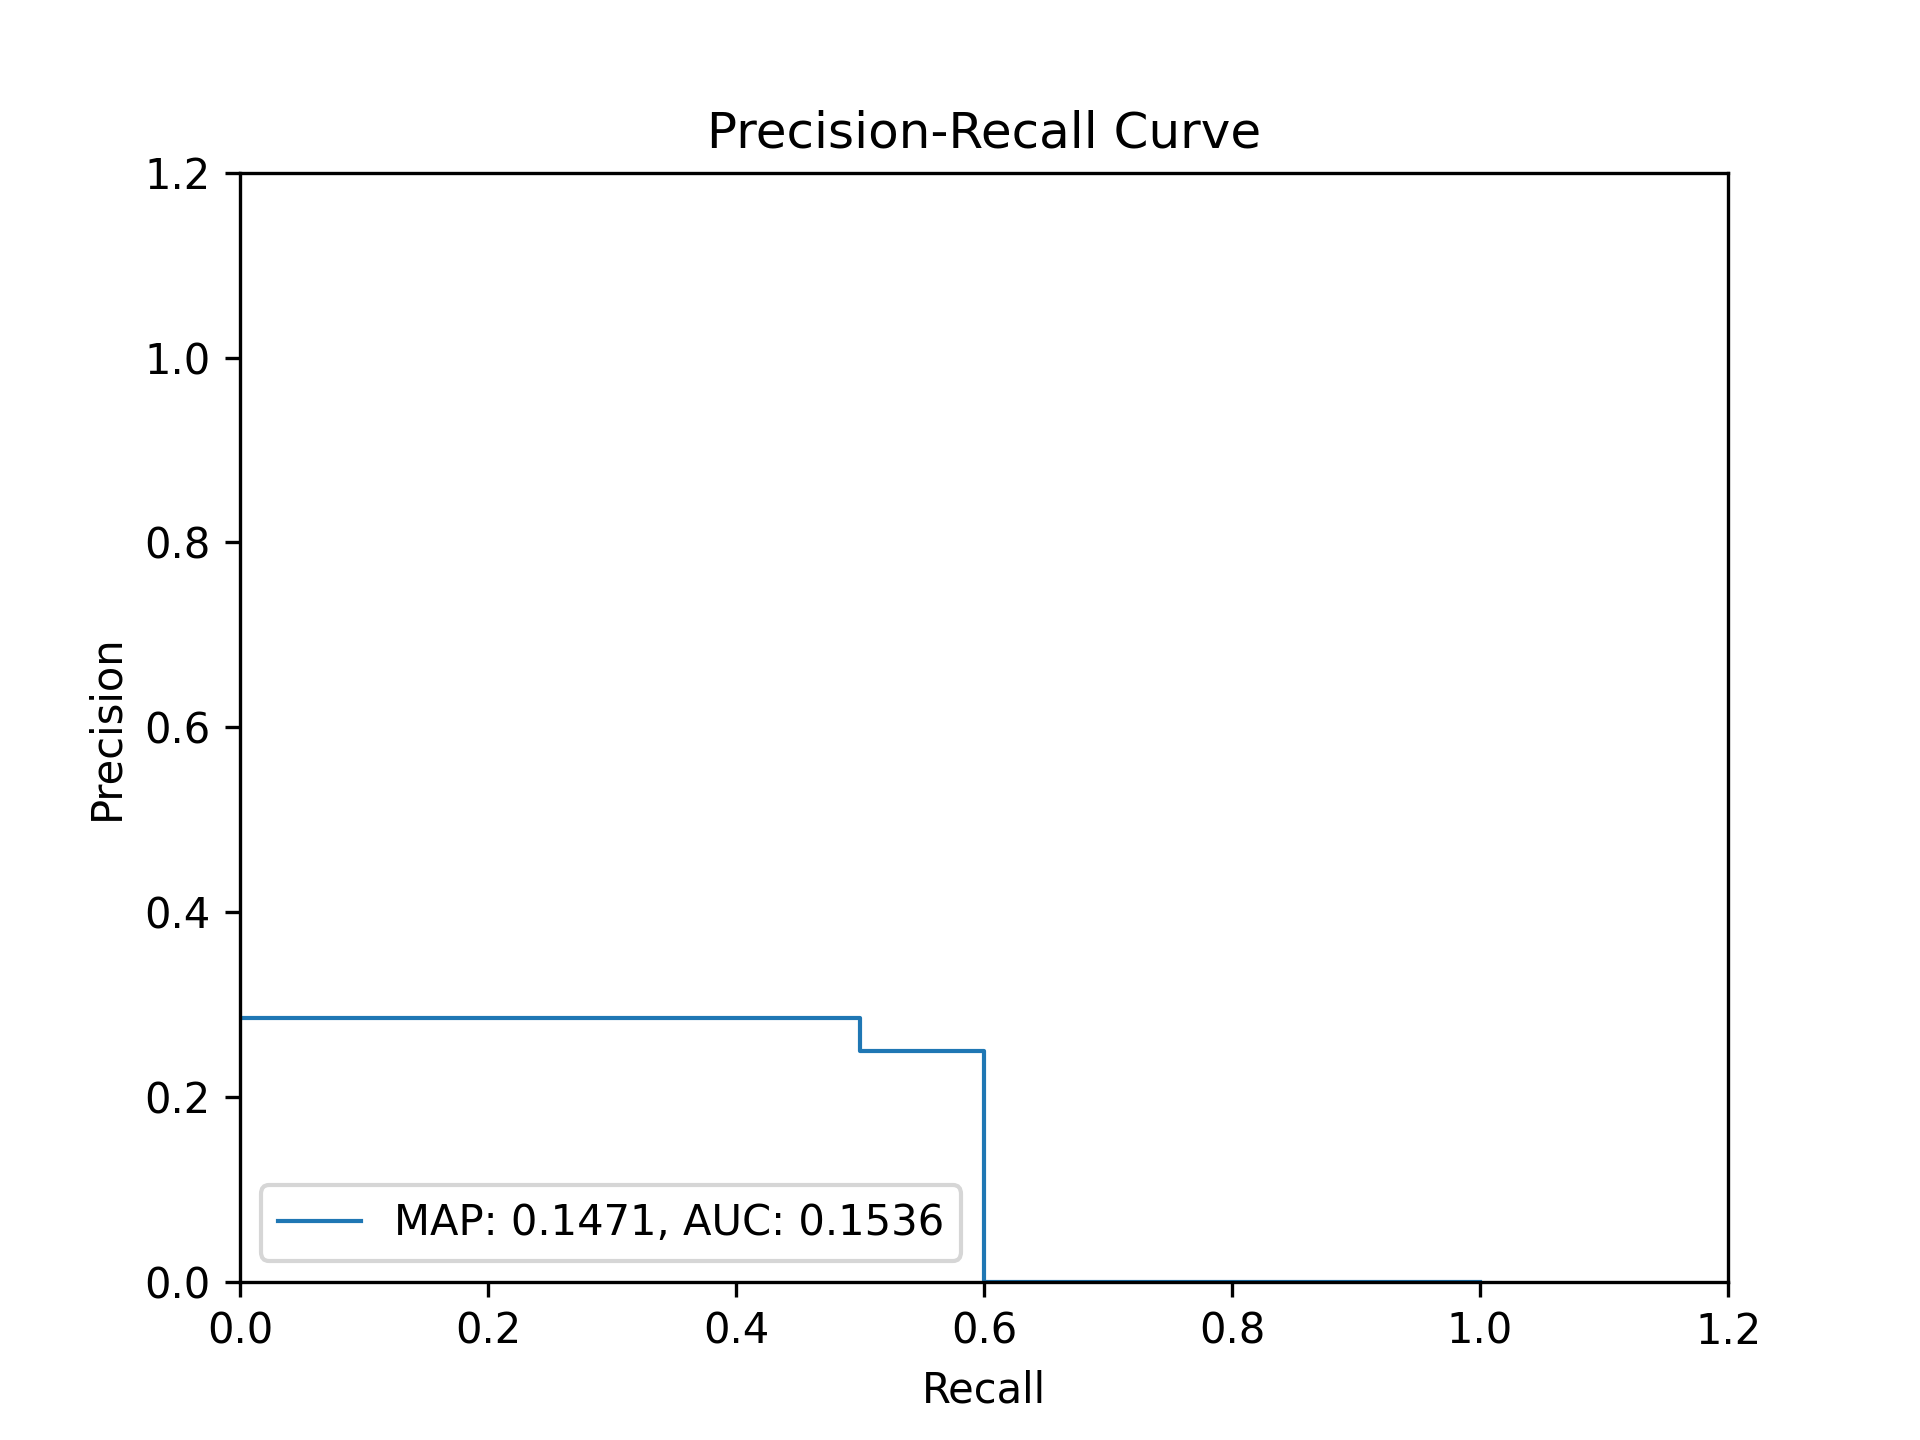
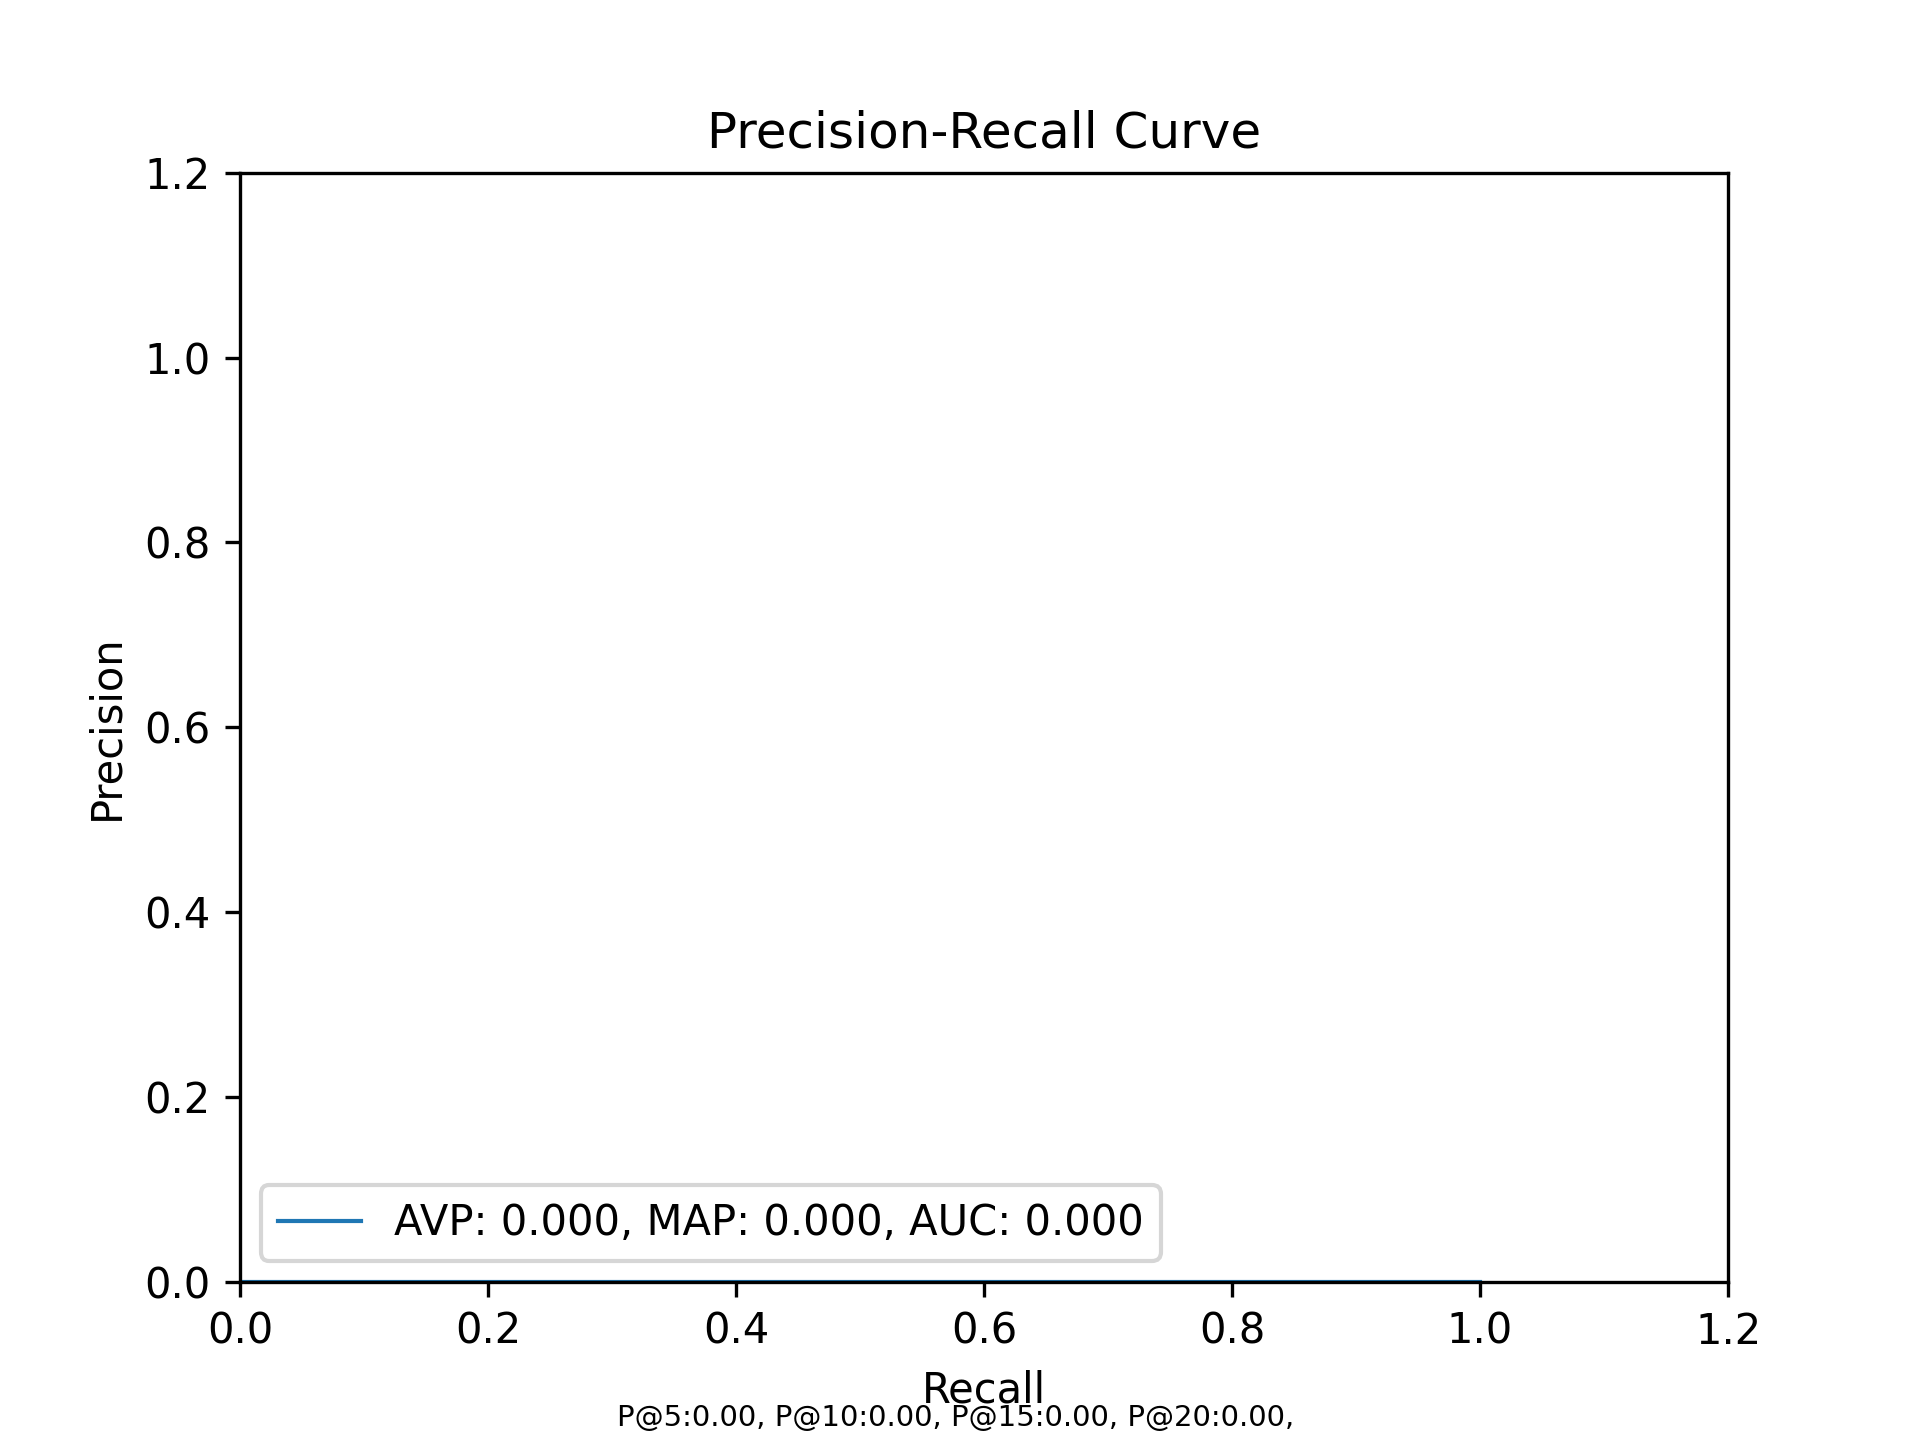
fix plot

Changed region(s): [[0.2188, 0.8125, 0.5938, 0.875], [0.3125, 0.9688, 0.6562, 1.0]]

diff --git a/scripts/plot_pr.py b/scripts/plot_pr.py
@@ -53,6 +53,14 @@ def main(qrels_file: str, output_file: str):
         # Recall: relevant docs so far / total relevant docs in qrels
         recall.append(relevant_count / len(y_true))
 
+    # Handle case where no relevant documents were found
+    if not relevant_docs:
+        print("Warning: No relevant documents found in the results.")
+        avp_score = 0
+    else:
+        # Compute AVP (Average Precision)
+        avp_score = sum(map(lambda idx: precision[idx], relevant_docs)) / len(relevant_docs)
+
     # Compute Mean Average Precision (MAP) as the mean of precision values for relevant documents
     map_score = np.sum(relevant_ranks) / len(y_true) if relevant_ranks else 0
 
@@ -64,10 +72,7 @@ def main(qrels_file: str, output_file: str):
     ]
 
     # Compute the Area Under Curve (AUC) for the precision-recall curve
-    auc_score = np.trapz(interpolated_precision, recall_levels)
-
-    # Compute AVP (Average Precision)
-    avp_score = sum(map(lambda idx: precision[idx], relevant_docs)) / len(relevant_docs)
+    auc_score = np.trapezoid(interpolated_precision, recall_levels)
 
     # Plot the 11-point interpolated precision-recall curve
     precisions_at_n = ""
